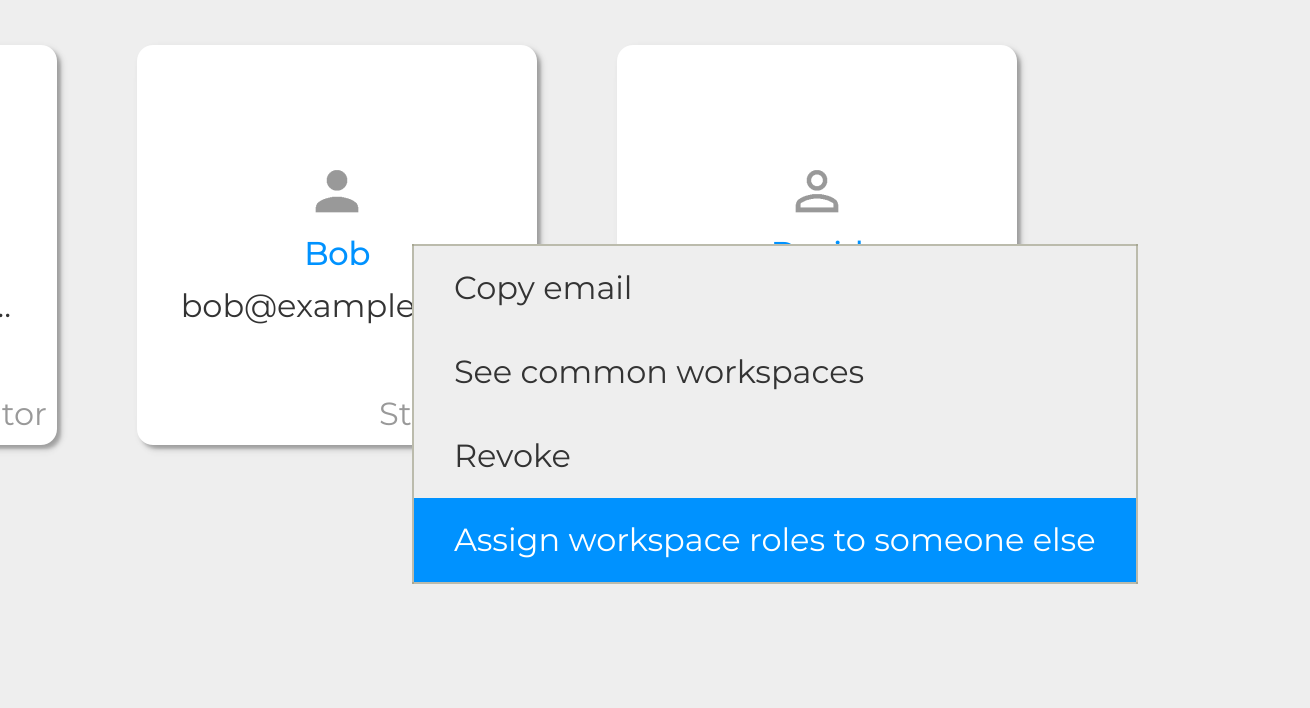
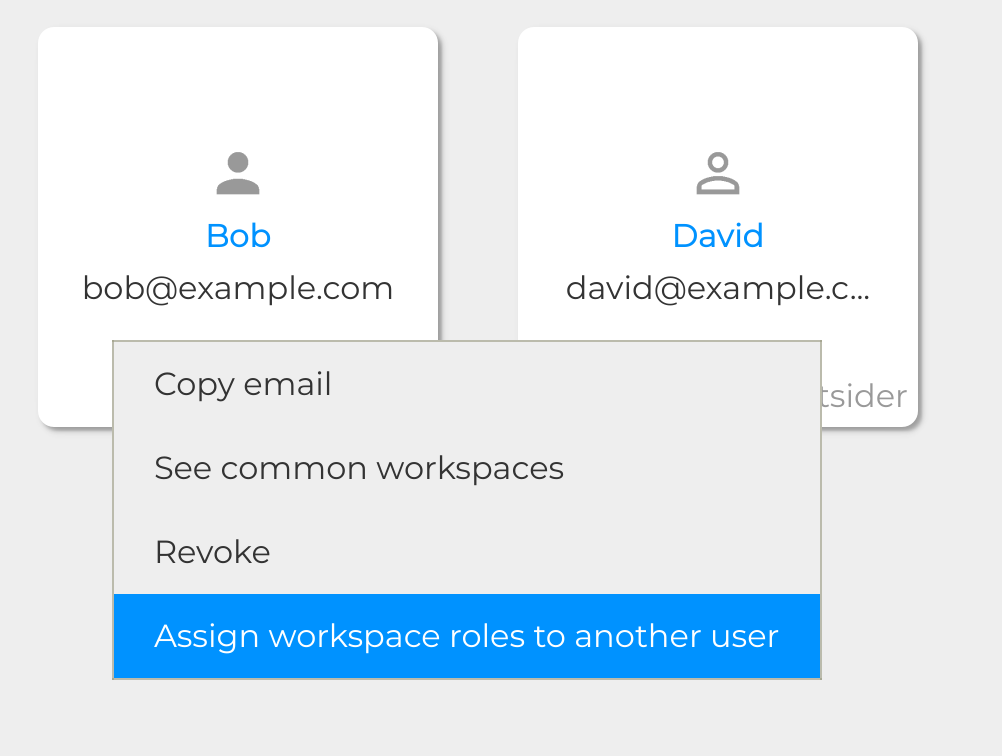
Updated texts and docs for bulk reassigning of workspaces

diff --git a/parsec/core/gui/reassign_workspace_roles_widget.py b/parsec/core/gui/reassign_workspace_roles_widget.py
@@ -69,13 +69,20 @@ class ReassignWorkspaceRolesWidget(QWidget, Ui_ReassignWorkspaceRolesWidget):
                 item.widget().setParent(None)
 
     def _switch_to_summary(
-        self, user_info: UserInfo, roles: dict[WorkspaceFS, WorkspaceRole]
+        self, selected_user_info: UserInfo, roles: dict[WorkspaceFS, WorkspaceRole]
     ) -> None:
         self._clear_layout()
-        summary_widget = ReassignWorkspaceRolesSummaryWidget(user_info, roles)
+        summary_widget = ReassignWorkspaceRolesSummaryWidget(selected_user_info, roles)
         summary_widget.previous_clicked.connect(self._switch_to_search)
         summary_widget.assign_clicked.connect(self._assign_roles)
         self.main_layout.insertWidget(0, summary_widget)
+        if self.dialog:
+            self.dialog.update_title(
+                T("TEXT_REASSIGN_WORKSPACE_ROLES_userFrom-userTo").format(
+                    userFrom=self.user_info.short_user_display,
+                    userTo=selected_user_info.short_user_display,
+                )
+            )
 
     def _switch_to_search(self) -> None:
         self._clear_layout()
@@ -84,6 +91,12 @@ class ReassignWorkspaceRolesWidget(QWidget, Ui_ReassignWorkspaceRolesWidget):
         )
         search_user.user_selected.connect(self._on_user_selected)
         self.main_layout.insertWidget(0, search_user)
+        if self.dialog:
+            self.dialog.update_title(
+                T("TEXT_REASSIGN_WORKSPACE_ROLES_user").format(
+                    user=self.user_info.short_user_display
+                )
+            )
 
     def _on_user_selected(self, selected_user_info: UserInfo) -> None:
         self._clear_layout()
@@ -178,7 +191,7 @@ class ReassignWorkspaceRolesWidget(QWidget, Ui_ReassignWorkspaceRolesWidget):
         w = cls(core=core, jobs_ctx=jobs_ctx, user_info=user_info, roles=workspaces)
         d = GreyedDialog(
             w,
-            title=T("TEXT_REASSIGN_WORKSPACE_ROLES"),
+            title=T("TEXT_REASSIGN_WORKSPACE_ROLES_user").format(user=user_info.short_user_display),
             parent=parent,
             width=1000,
         )

diff --git a/parsec/core/gui/custom_dialogs.py b/parsec/core/gui/custom_dialogs.py
@@ -236,6 +236,11 @@ class GreyedDialog(Generic[_CurrentWidget], QDialog, Ui_GreyedDialog):
             # Mypy This is the correct way to remove a parent from a widget but PyQt miss that overload
             self.setParent(None)  # type: ignore[call-overload]
 
+    def update_title(self, title: str) -> None:
+        if not self.widget_title.isVisible():
+            self.widget_title.show()
+        self.label_title.setText(title)
+
 
 def generate_dialog_method(
     sub_cls: T_CLASS, sub_method: Callable[Concatenate[QWidget | None, P], R], default_return: R

diff --git a/docs/userguide/share_data.rst b/docs/userguide/share_data.rst
@@ -69,7 +69,7 @@ Data copied from file explorer also appear in the Parsec client. In addition, th
 Bulk assign workspace roles to users
 ------------------------------------
 
-Assigning the same roles to multiple users on multiple workspaces can be a bit annoying. Parsec provides a way to bulk assign the roles of one user to another.
+Manually assigning the same workspace roles to multiple users can be a bit tedious and error prone. Parsec provides a way to bulk assign the roles from one user to another.
 
 1. In the Users page, right click on the user you want to copy the roles from:
 
@@ -83,7 +83,7 @@ Assigning the same roles to multiple users on multiple workspaces can be a bit a
     :align: center
     :alt: Select the user to assign roles to
 
-3. You're shown a summary of what roles are going to be assigned on each workspace. Click on `Assign roles` to complete the operation.
+3. You're shown a summary of which roles are going to be assigned on each workspace. Click on `Assign roles` to complete the operation.
 
 .. image:: screens/bulk_assign_roles_summary.png
     :align: center
@@ -91,8 +91,8 @@ Assigning the same roles to multiple users on multiple workspaces can be a bit a
 
 .. note::
 
-    1. You can only assign roles on workspaces where you are an Owner or Manager
-    2. Outsider cannot have a role higher than Contributor
+    1. You can only assign roles on a workspace where you have an Owner or Manager role
+    2. An Outsider user cannot have a role higher than Contributor
     3. You cannot assign roles higher than your own. If you have the Manager role in a workspace and you're trying to assign the Owner role, it will be downgraded to Contributor).
     4. If the user already has a higher role on the workspace than the one you're trying to assign, no change will be made to its role
     5. The option is only available if you have workspaces in common with the source user and you have a role high enough
